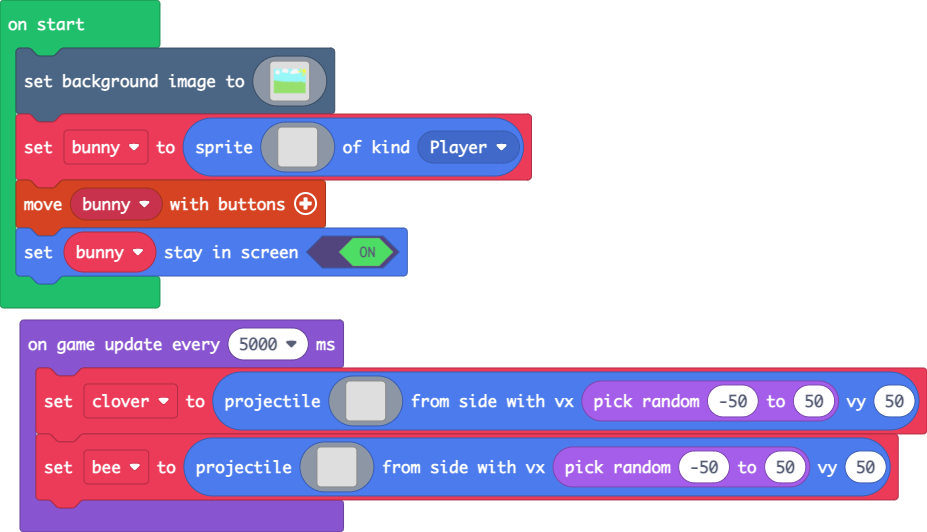
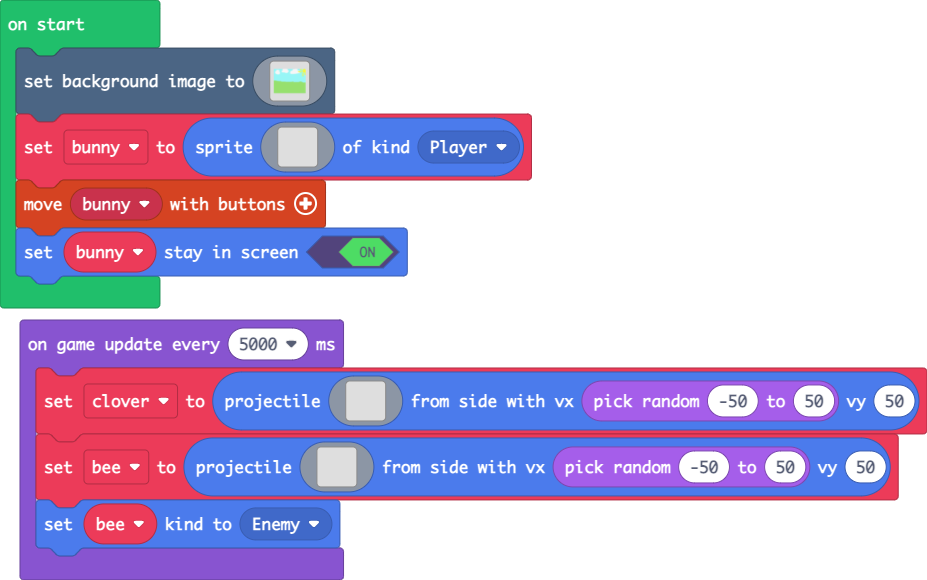
Update pxt.json, main.blocks, main.ts, tilemap.g.jres, tilemap.g.ts

diff --git a/tilemap.g.ts b/tilemap.g.ts
@@ -1,0 +1,14 @@
+// Auto-generated code. Do not edit.
+namespace myTiles {
+    //% fixedInstance jres blockIdentity=images._tile
+    export const transparency16 = image.ofBuffer(hex``);
+
+    helpers._registerFactory("tile", function(name: string) {
+        switch(helpers.stringTrim(name)) {
+            case "transparency16":return transparency16;
+        }
+        return null;
+    })
+
+}
+// Auto-generated code. Do not edit.

diff --git a/main.ts b/main.ts
@@ -58,4 +58,5 @@ game.onUpdateInterval(5000, function () {
         . . . . . . . . . . . . . . . . 
         . . . . . . . . . . . . . . . . 
         `, randint(-50, 50), 50)
+    bee.setKind(SpriteKind.Enemy)
 })
